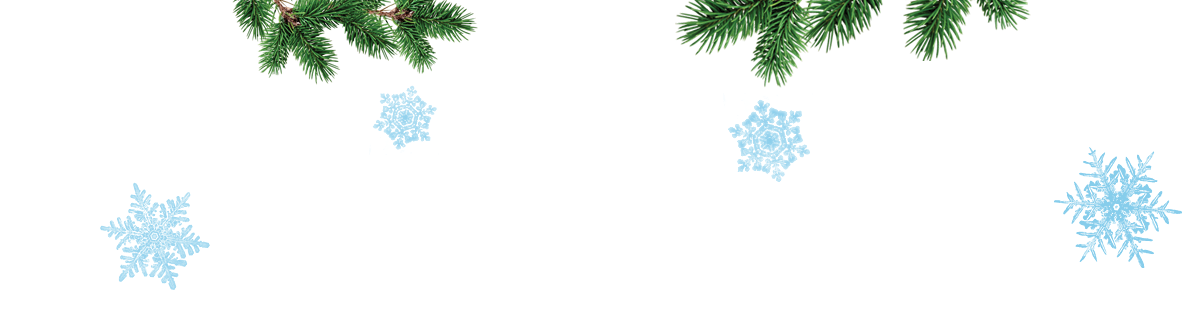
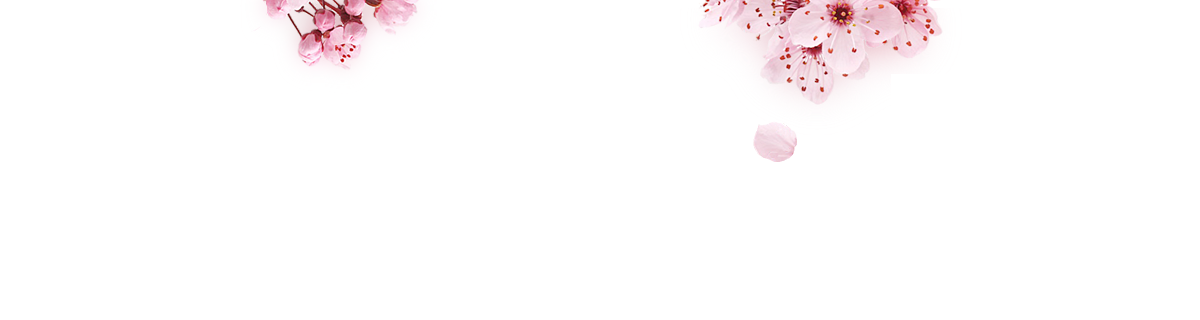
Change header background

diff --git a/resources/views/front/header.blade.php b/resources/views/front/header.blade.php
@@ -1,6 +1,6 @@
 @section('header')
     <div class="banner">
-        <img src="/img/big.jpg" alt="" class="banner-desktop">
+        <img src="/img/banner.png" alt="" class="banner-desktop">
         <img src="/img/forphone.jpg" alt="" class="banner-mobile">
     </div>
     <header class="header">
